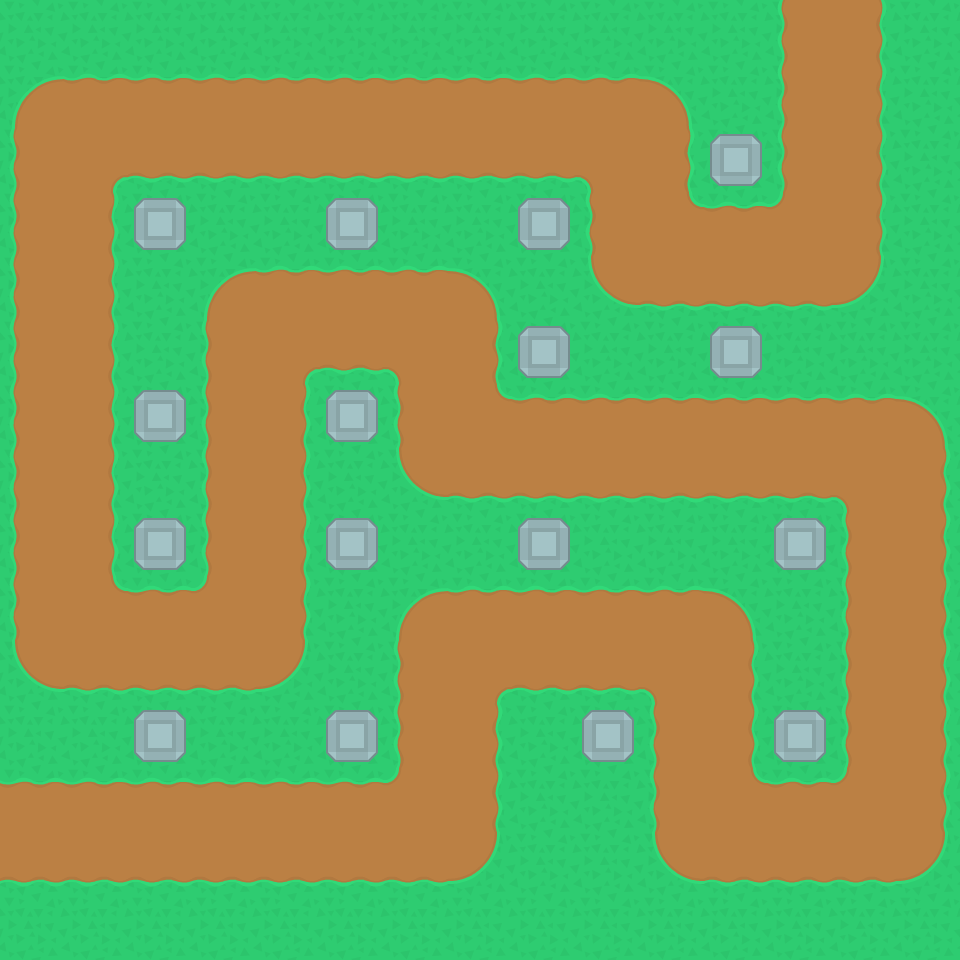
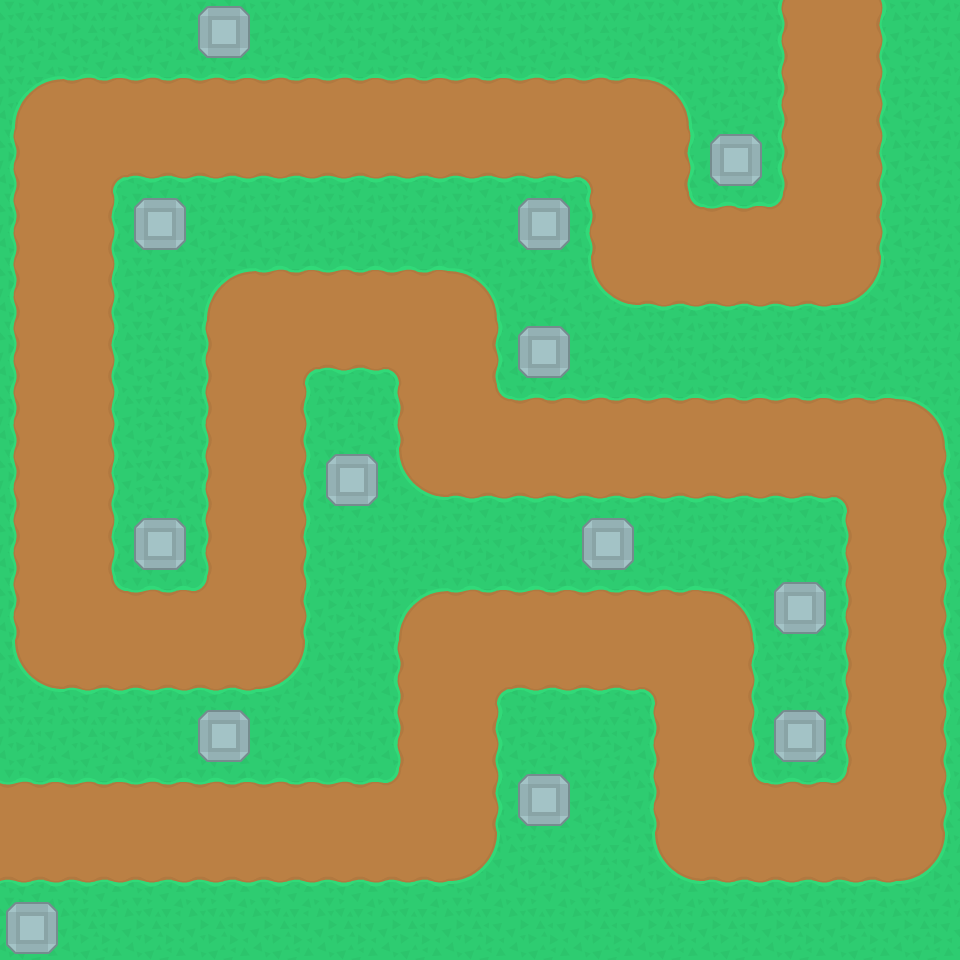
完成介面Money Level Cost Health以及遊戲結束以及開始

diff --git a/main.py b/main.py
@@ -13,6 +13,8 @@ clock = pg.time.Clock()
 screen = pg.display.set_mode((c.SCREEN_WIDTH + c.SIDE_PANEL, c.SCREEN_HEIGHT))
 pg.display.set_caption(c.TITLE)
 # game variables
+level_started: bool = False
+game_over: bool = False
 last_enemy_spawn = pg.time.get_ticks()
 selected_tower: Tower | None = None
 selected_tile: tuple | None = None
@@ -30,7 +32,10 @@ enemy_images = {
 
 buy_tower_image = pg.image.load('assets/buttons/buy_tower.png').convert_alpha()
 upgrade_tower_image = pg.image.load('assets/buttons/upgrade_tower.png').convert_alpha()
-cancel_image = pg.image.load('assets/buttons/cancel.png').convert_alpha()
+start_image = pg.image.load('assets/buttons/start.png').convert_alpha()
+sell_image = pg.image.load('assets/buttons/sell.png').convert_alpha()
+
+bullet_image = pg.image.load('assets/bullet/bullet.png').convert_alpha()
 
 # load font
 text_font = pg.font.Font('assets/NotoSansTC-Regular.otf', 24)
@@ -82,20 +87,25 @@ tower_group = pg.sprite.Group()
 
 buy_tower_button = Button(c.SCREEN_WIDTH + 20, c.SCREEN_HEIGHT - 60, buy_tower_image, True)
 upgrade_tower_button = Button(c.SCREEN_WIDTH + 20, c.SCREEN_HEIGHT - 60, upgrade_tower_image, True)
-# cancel_button = Button(c.SCREEN_WIDTH + c.SIDE_PANEL - 140, c.SCREEN_HEIGHT - 60, cancel_image, True)
+start_button = Button(c.SCREEN_WIDTH + 20, (c.SCREEN_HEIGHT - 30) // 2, start_image, True)
+sell_button = Button(c.SCREEN_WIDTH + c.SIDE_PANEL - 140, c.SCREEN_HEIGHT - 60, sell_image, True)
 
 run = True
 while run:
 
     clock.tick(c.FPS)
+
     # Updating
     screen.fill("grey100")
+    if not game_over:
+        if world.health <= 0:
+            game_over = True
 
-    enemy_group.update()
-    tower_group.update(enemy_group)
+        enemy_group.update(world)
+        tower_group.update(enemy_group)
 
-    if selected_tower:
-        selected_tower.selected = True
+        if selected_tower:
+            selected_tower.selected = True
     # Drawing
     world.draw(screen)
 
@@ -105,25 +115,42 @@ while run:
 
     draw_text(f'Health: {world.health}', text_font, "black", c.SCREEN_WIDTH + 5, 0)
     draw_text(f'Money: {world.money}', text_font, "black", c.SCREEN_WIDTH + 5, 25)
+    draw_text(f'Level: {world.level}', text_font, "black", c.SCREEN_WIDTH + 5, 50)
 
-    if pg.time.get_ticks() - last_enemy_spawn > c.SPAWN_COOLDOWN:
-        if world.spawned_enemies < len(world.enemy_list):
-            enemy_type = world.enemy_list[world.spawned_enemies]
-            enemy = Enemy(enemy_type, world.waypoints, enemy_images)
-            enemy_group.add(enemy)
-            world.spawned_enemies += 1
+    if not game_over:
+        if not level_started:
+            if start_button.draw(screen):
+                level_started = True
+        else:
+            if pg.time.get_ticks() - last_enemy_spawn > c.SPAWN_COOLDOWN:
+                if world.spawned_enemies < len(world.enemy_list):
+                    enemy_type = world.enemy_list[world.spawned_enemies]
+                    enemy = Enemy(enemy_type, world.waypoints, enemy_images)
+                    enemy_group.add(enemy)
+                    world.spawned_enemies += 1
+                    last_enemy_spawn = pg.time.get_ticks()
+
+        if world.check_level_completed() and world.level < c.MAP_MAX_LEVEL:
+            level_started = False
+            world.level += 1
             last_enemy_spawn = pg.time.get_ticks()
+            world.reset_level()
+            world.process_enemies()
 
-    if selected_tile:
-        if buy_tower_button.draw(screen) and world.money > c.TOWER_COST:
-            create_tower(selected_tile)
-            world.money -= c.TOWER_COST
-            selected_tile = None
-    elif selected_tower:
-        selected_tower.selected = True
-        if selected_tower.level < c.MAX_LEVEL and upgrade_tower_button.draw(screen) and world.money > selected_tower.cost:
-            world.money -= selected_tower.cost
-            selected_tower.upgrade()
+        if selected_tile:
+            draw_text(f'Cost: {c.TOWER_COST}', text_font, "black", c.SCREEN_WIDTH + 25, c.SCREEN_HEIGHT - 110)
+            if buy_tower_button.draw(screen) and world.money >= c.TOWER_COST:
+                create_tower(selected_tile)
+                world.money -= c.TOWER_COST
+                selected_tile = None
+        elif selected_tower:
+            selected_tower.selected = True
+
+            if selected_tower.level < c.TOWER_MAX_LEVEL:
+                draw_text(f'Cost: {selected_tower.cost}', text_font, "black", c.SCREEN_WIDTH + 25, c.SCREEN_HEIGHT - 110)
+                if upgrade_tower_button.draw(screen) and world.money >= selected_tower.cost:
+                    world.money -= selected_tower.cost
+                    selected_tower.upgrade()
 
     # event
     for event in pg.event.get():
@@ -132,6 +159,7 @@ while run:
         if event.type == pg.MOUSEBUTTONDOWN and event.button == 1:
             mouse_pos = pg.mouse.get_pos()
             if mouse_pos[0] < c.SCREEN_WIDTH and mouse_pos[1] < c.SCREEN_HEIGHT:
+                selected_tile = None
                 selected_tower = None
                 clear_selection()
                 selected_tower = select_tower(mouse_pos)

diff --git a/constants.py b/constants.py
@@ -1,3 +1,5 @@
+from enemy_data import ENEMY_SPAWN_DATA
+
 ROWS = 15
 COLS = 15
 TILE_SIZE = 64
@@ -25,24 +27,25 @@ WAYPOINTS = [
     (448, 832),
     (-50, 832)
 ]
-TILE_MAP = [0, 0, 0, 0, 0, 0, 0, 0, 0, 0, 0, 0, 0, 0, 0,
+TILE_MAP = [0, 0, 0, 181, 0, 0, 0, 0, 0, 0, 0, 0, 0, 0, 0,
             0, 0, 0, 0, 0, 0, 0, 0, 0, 0, 0, 0, 0, 0, 0,
             0, 0, 0, 0, 0, 0, 0, 0, 0, 0, 0, 181, 0, 0, 0,
-            0, 0, 181, 0, 0, 181, 0, 0, 181, 0, 0, 0, 0, 0, 0,
+            0, 0, 181, 0, 0, 0, 0, 0, 181, 0, 0, 0, 0, 0, 0,
             0, 0, 0, 0, 0, 0, 0, 0, 0, 0, 0, 0, 0, 0, 0,
-            0, 0, 0, 0, 0, 0, 0, 0, 181, 0, 0, 181, 0, 0, 0,
-            0, 0, 181, 0, 0, 181, 0, 0, 0, 0, 0, 0, 0, 0, 0,
+            0, 0, 0, 0, 0, 0, 0, 0, 181, 0, 0, 0, 0, 0, 0,
             0, 0, 0, 0, 0, 0, 0, 0, 0, 0, 0, 0, 0, 0, 0,
-            0, 0, 181, 0, 0, 181, 0, 0, 181, 0, 0, 0, 181, 0, 0,
+            0, 0, 0, 0, 0, 181, 0, 0, 0, 0, 0, 0, 0, 0, 0,
+            0, 0, 181, 0, 0, 0, 0, 0, 0, 181, 0, 0, 0, 0, 0,
+            0, 0, 0, 0, 0, 0, 0, 0, 0, 0, 0, 0, 181, 0, 0,
             0, 0, 0, 0, 0, 0, 0, 0, 0, 0, 0, 0, 0, 0, 0,
+            0, 0, 0, 181, 0, 0, 0, 0, 0, 0, 0, 0, 181, 0, 0,
+            0, 0, 0, 0, 0, 0, 0, 0, 181, 0, 0, 0, 0, 0, 0,
             0, 0, 0, 0, 0, 0, 0, 0, 0, 0, 0, 0, 0, 0, 0,
-            0, 0, 181, 0, 0, 181, 0, 0, 0, 181, 0, 0, 181, 0, 0,
-            0, 0, 0, 0, 0, 0, 0, 0, 0, 0, 0, 0, 0, 0, 0,
-            0, 0, 0, 0, 0, 0, 0, 0, 0, 0, 0, 0, 0, 0, 0,
-            0, 0, 0, 0, 0, 0, 0, 0, 0, 0, 0, 0, 0, 0, 0]
+            181, 0, 0, 0, 0, 0, 0, 0, 0, 0, 0, 0, 0, 0, 0]
 TOWER_TILE_ID = 181
-MAX_LEVEL = 4
-SPAWN_COOLDOWN = 300
-MONEY = 50
+TOWER_MAX_LEVEL = 4
+SPAWN_COOLDOWN = 200
+MONEY = 90
 HEALTH = 5
-TOWER_COST = 20
+TOWER_COST = 30
+MAP_MAX_LEVEL = len(ENEMY_SPAWN_DATA)

diff --git a/tower.py b/tower.py
@@ -39,10 +39,11 @@ class Tower(pg.sprite.Sprite):
         self.range_rect.center = self.rect.center
 
     def update(self, enemy_group):
+        self.pick_target(enemy_group)
         if pg.time.get_ticks() - self.last_shot > self.cooldown and self.target:
             self.target.health -= self.damage
             self.last_shot = pg.time.get_ticks()
-        self.pick_target(enemy_group)
+            self.target = None
 
     def upgrade(self):
         self.level += 1
@@ -61,13 +62,14 @@ class Tower(pg.sprite.Sprite):
 
     def pick_target(self, enemy_group):
         for enemy in enemy_group:
-            x_dist = enemy.pos[0] - self.x
-            y_dist = enemy.pos[1] - self.y
-            dist = math.sqrt(x_dist ** 2 + y_dist ** 2)
-            if dist < self.range:
-                self.target = enemy
-                self.angle = math.degrees(math.atan2(-y_dist, x_dist))
-                return
+            if enemy.health > 0:
+                x_dist = enemy.pos[0] - self.x
+                y_dist = enemy.pos[1] - self.y
+                dist = math.sqrt(x_dist ** 2 + y_dist ** 2)
+                if dist < self.range:
+                    self.target = enemy
+                    self.angle = math.degrees(math.atan2(-y_dist, x_dist))
+                    break
 
     def draw(self, surface):
         self.image = pg.transform.rotate(self.original_image, self.angle - 90)

diff --git a/enemy_data.py b/enemy_data.py
@@ -1,6 +1,6 @@
 ENEMY_SPAWN_DATA = [
     {
-        "basic": 10,
+        "basic": 5,
         "fast": 0,
         "strong": 0
     },
@@ -11,40 +11,60 @@ ENEMY_SPAWN_DATA = [
     },
     {
         "basic": 10,
-        "fast": 0,
-        "strong": 5
-    },
-    {
-        "basic": 15,
-        "fast": 5,
+        "fast": 10,
         "strong": 0
     },
     {
-        "basic": 15,
+        "basic": 10,
         "fast": 5,
-        "strong": 5
+        "strong": 10
     },
     {
-        "basic": 5,
+        "basic": 20,
         "fast": 10,
         "strong": 5
+    },
+    {
+        "basic": 20,
+        "fast": 20,
+        "strong": 10
+    },
+    {
+        "basic": 30,
+        "fast": 15,
+        "strong": 20
+    },
+    {
+        "basic": 40,
+        "fast": 20,
+        "strong": 15
+    },
+    {
+        "basic": 40,
+        "fast": 20,
+        "strong": 20
+    },
+    {
+        "basic": 50,
+        "fast": 40,
+        "strong": 35
     }
 ]
 
 ENEMY_DATA = {
     "basic": {
-        "health": 30,
+        "health": 40,
         "speed": 3,
-        "money": 10
+        "money": 5
     },
     "fast": {
-        "health": 20,
+        "health": 35,
         "speed": 4,
-        "money": 15
+        "money": 8
     },
     "strong": {
-        "health": 80,
+        "health": 100,
         "speed": 2.5,
-        "money": 20
+        "money": 10
     }
 }

diff --git a/enemy.py b/enemy.py
@@ -24,16 +24,18 @@ class Enemy(pg.sprite.Sprite):
         self.rect = self.image.get_rect()
         self.rect.center = self.pos
 
-    def update(self):
-        if self.health <= 0: self.kill()
-        self.move()
+    def update(self, world):
+        self.check_alive(world)
+        self.move(world)
         self.rotate()
 
-    def move(self):
+    def move(self, world):
         if self.target_waypoint < len(self.waypoints):
             self.target = Vector2(self.waypoints[self.target_waypoint])
             self.movement = self.target - self.pos
         else:
+            world.health -= 1
+            world.missed_enemies += 1
             self.kill()
 
         dist = self.movement.length()
@@ -55,3 +57,9 @@ class Enemy(pg.sprite.Sprite):
         self.image = pg.transform.rotate(self.original_image, self.angle)
         self.rect = self.image.get_rect()
         self.rect.center = self.pos
+
+    def check_alive(self, world):
+        if self.health <= 0:
+            world.money += self.money
+            world.killed_enemies += 1
+            self.kill()

diff --git a/world.py b/world.py
@@ -6,7 +6,7 @@ from enemy_data import ENEMY_SPAWN_DATA
 
 class World:
     def __init__(self, map_image):
-        self.level = 5
+        self.level = 1
         self.health = c.HEALTH
         self.money = c.MONEY
         self.tile_map = c.TILE_MAP
@@ -15,6 +15,8 @@ class World:
         self.tower_tile_id = c.TOWER_TILE_ID
         self.enemy_list = []
         self.spawned_enemies = 0
+        self.killed_enemies = 0
+        self.missed_enemies = 0
 
     def process_enemies(self):
         enemies = ENEMY_SPAWN_DATA[self.level - 1]
@@ -26,3 +28,12 @@ class World:
 
     def draw(self, surface):
         surface.blit(self.image, (0, 0))
+
+    def check_level_completed(self):
+        return self.killed_enemies + self.missed_enemies == len(self.enemy_list)
+
+    def reset_level(self):
+        self.spawned_enemies = 0
+        self.killed_enemies = 0
+        self.missed_enemies = 0
+        self.enemy_list = []

diff --git a/tower_data.py b/tower_data.py
@@ -1,23 +1,23 @@
 TOWER_DATA = [
     {
-        "damage": 20,
+        "damage": 15,
         "range": 140,
         "cooldown": 1000,
-        "cost": 10
+        "cost": 20
     }, {
-        "damage": 25,
+        "damage": 20,
         "range": 150,
         "cooldown": 950,
-        "cost": 15
+        "cost": 45
     }, {
         "damage": 25,
         "range": 160,
         "cooldown": 900,
-        "cost": 25
+        "cost": 80
     }, {
         "damage": 30,
         "range": 160,
         "cooldown": 800,
-        "cost": 45
+        "cost": 100
     },
 ]
